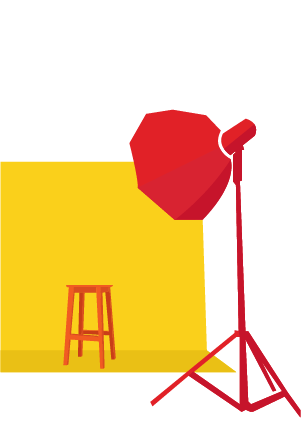
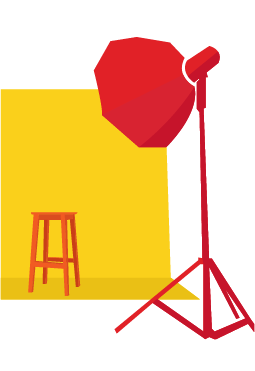
added Shoot image and added extra comments

Changed region(s): [[0.0, 0.0889, 1.0, 0.9488]]

diff --git a/resources/css/styles.css b/resources/css/styles.css
@@ -17,12 +17,12 @@ html {
   margin: 0px;
   padding: 0px;
 }
-
+/*navbar*/
 nav{
   box-shadow: 5px 5px 5px#C8C8C8;
   background-color: white;
 } 
-/*check out font size relativeness*/
+
 .nav-a{
   font-size: 1em;
 }
@@ -34,8 +34,9 @@ nav{
 #logo {
   width: 60%;
 } 
+/*end*/
 
-.centered{
+.centered{    /*centers item*/
   display: flex;
   align-items: center;
   justify-content: center;
@@ -50,9 +51,9 @@ button {
     background: white;
     border: none;
     border-radius: 12px;
-    color: black; /* make transparent*/
+    color: black; /*make text transparent*/
     font-size: 1.5em;
-    padding:  1% 8%; /*top/b righ/l*/
+    padding:  1% 8%; /*top/b right/l*/
     border-radius: 50px;
 }
 
@@ -62,16 +63,6 @@ button {
 
 .first-section p{
   font-size: 2em; 
-}
-
-.second-section{
-  padding-top: 1.5%;
-}
-
-.second-section p{
-  font-size: 1.6em;
-  font-weight:500;
-  letter-spacing: none;
 }
 
 /*arrow*/
@@ -89,12 +80,23 @@ i {
   transform: rotate(45deg);
   -webkit-transform: rotate(45deg);
 }
+/*end*/
 
-.paragraphs{
+.second-section{
+  padding-top: 1.5%;
+}
+
+.second-section p{
+  font-size: 1.6em;
+  font-weight:500;
+  letter-spacing: none;
+}
+
+.paragraphs{  /*move div of paragraphs down. For second-section*/
   padding-top: 10%;
 }
 
-#line{
+#line{ /*gradient line in 2nd section*/
   width: 30%;
   display:block;
   border:none;
@@ -109,14 +111,17 @@ i {
 .third-section{
   padding-top: 5%;
 }
+
 .padding-bottom{
   padding-bottom: 5%;
 }
-.row{
+
+.row{ /*removed margin from row of img*/
   margin-left: 0;
   margin-right: 0;
 }
 
+/*font for third section img*/
 .photo-h2{
   padding-top: 3%;
   font-weight: 900;
@@ -127,6 +132,7 @@ i {
   text-align: center;
   font-weight: 500;
 }
+/*end*/
 
 /* Small devices (portrait tablets and large phones, 600px and up) */
 

diff --git a/index.html b/index.html
@@ -70,7 +70,7 @@
 		<div class="first-section centered">
 			<div>
 				<h1>Introducing</h1>
-				<p>Shoot</p>
+				<p>Shoot</p> <!--Change to Shoot img-->
 				<p>The new way to</p>
 				<p>Connect with creatives.</p>
 				<button><span>Learn More</span></button>
@@ -107,7 +107,7 @@
 				</div>
 
 				<div class="col-lg-4 col-sm-12 padding-bottom">
-						<img src="resources/img/Connect-Illustration.png" class="photo-img">
+						<img src="resources/img/Shoot-Illustration.png" class="photo-img">
 						<h2 class="photo-h2">Shoot</h2>
 						<div class="photo-p">
 							<p>Communicate directly with</p>
